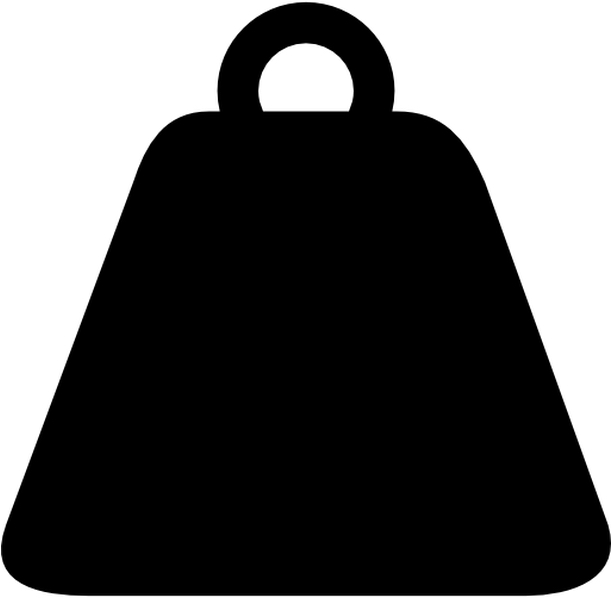
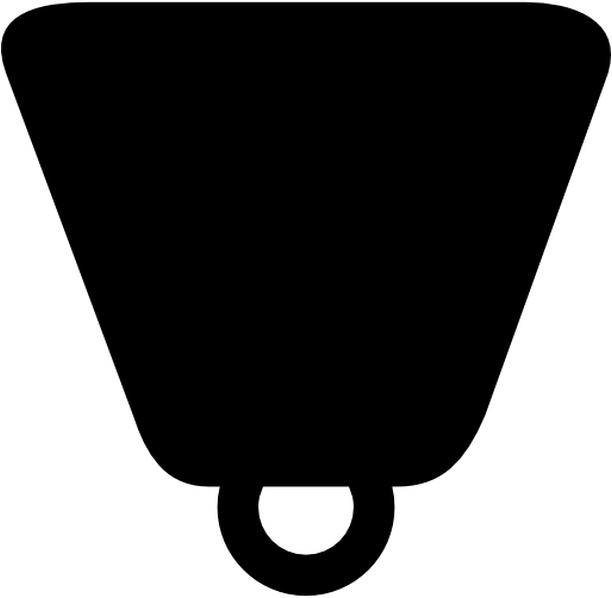
removed deprecated images and sounds, added conditional bell animations

diff --git a/src/App.js b/src/App.js
@@ -8,6 +8,7 @@ class App extends Component {
 
   state = {
     animateStick: false,
+    animateBell: false,
     keyCount: 0,
     meterTime: 'More Cowbell!',
   }
@@ -49,6 +50,7 @@ class App extends Component {
 
   handleCountDownStart = () => {
     this.setState({
+      animateBell: false,
       keyCount: 0,
       meterTime: 3
     })
@@ -59,23 +61,40 @@ class App extends Component {
     switch (true) {
       case this.state.keyCount < 30:
         cowbellSounds.quietCowbell1.play();
+        this.setState({
+          animateStick: false,
+          animateBell: "shake",
+        })
         break;
       case this.state.keyCount < 60:
         cowbellSounds.quietCowbell2.play();
+        this.setState({
+          animateStick: false,
+          animateBell: "shake",
+        })
         break;
       case this.state.keyCount < 100:
         cowbellSounds.medCowbell2.play();
+        this.setState({
+          animateStick: false,
+          animateBell: "wobble",
+        })
         break;
       case this.state.keyCount < 200:
         cowbellSounds.highCowbell1.play();
+        this.setState({
+          animateStick: false,
+          animateBell: "fadeOutLeft",
+        })
         break;
       default:
         cowbellSounds.quietCowebell1.play();
+        this.setState({
+          animateStick: false,
+          animateBell: "shake",
+        })
         break;
     }
-    this.setState({
-      animateStick: false
-    })
   }
 
   handleAnimateStick = () => {
@@ -94,7 +113,7 @@ class App extends Component {
           <PowerMeter keyCount={this.state.keyCount}/>
         </header>
         <div className="App-body">
-          <Cowbell />
+          <Cowbell animateBell={this.state.animateBell}/>
           <Stick animateStick={this.state.animateStick} handleAnimate={this.handleAnimateStick}/>
         </div>
       </div>

diff --git a/public/styles.css b/public/styles.css
@@ -14,12 +14,7 @@
   animation-timing-function: ease-in;
 }
 
-.resting-stick {
-  vertical-align: top;
-  position: relative;
-  margin-left: -10px;
-  transform: rotate(0deg);
-}
+/* elements */
 
 body {
   margin: 0;
@@ -37,9 +32,7 @@ h1:hover {
   cursor: pointer;
 }
 
-#cowbell {
-  transform: rotate(180deg);
-}
+/* App Component */
 
 .App-header {
   background-color: #222;
@@ -52,6 +45,8 @@ h1:hover {
   width: 900px;
   margin-top: 30px;
 }
+
+/* Powermeter elements */
 
 .App-powermeter {
   float: right;
@@ -102,4 +97,17 @@ h1:hover {
   height: 45px;
   margin-left: 2px;
   background-color: maroon;
+}
+
+/* Cowbell and Stick Components */
+
+.cowbell {
+
+}
+
+.resting-stick {
+  vertical-align: top;
+  position: relative;
+  margin-left: -10px;
+  transform: rotate(0deg);
 }

diff --git a/src/components/cowbell.js b/src/components/cowbell.js
@@ -1,9 +1,18 @@
 import React from 'react'
 import cowbellImage from '../images/cowbell.jpg'
 
-const Cowbell = () => {
+const Cowbell = ({animateBell}) => {
+
+  const bellClass = () => {
+    if (animateBell) {
+      return `cowbell animated ${animateBell}`
+    } else {
+      return "cowbell"
+    }
+  }
+
   return (
-      <img id="cowbell" src={cowbellImage} alt="cowbell"></img>
+      <img className={bellClass()} src={cowbellImage} alt="cowbell"></img>
   )
 }
 
